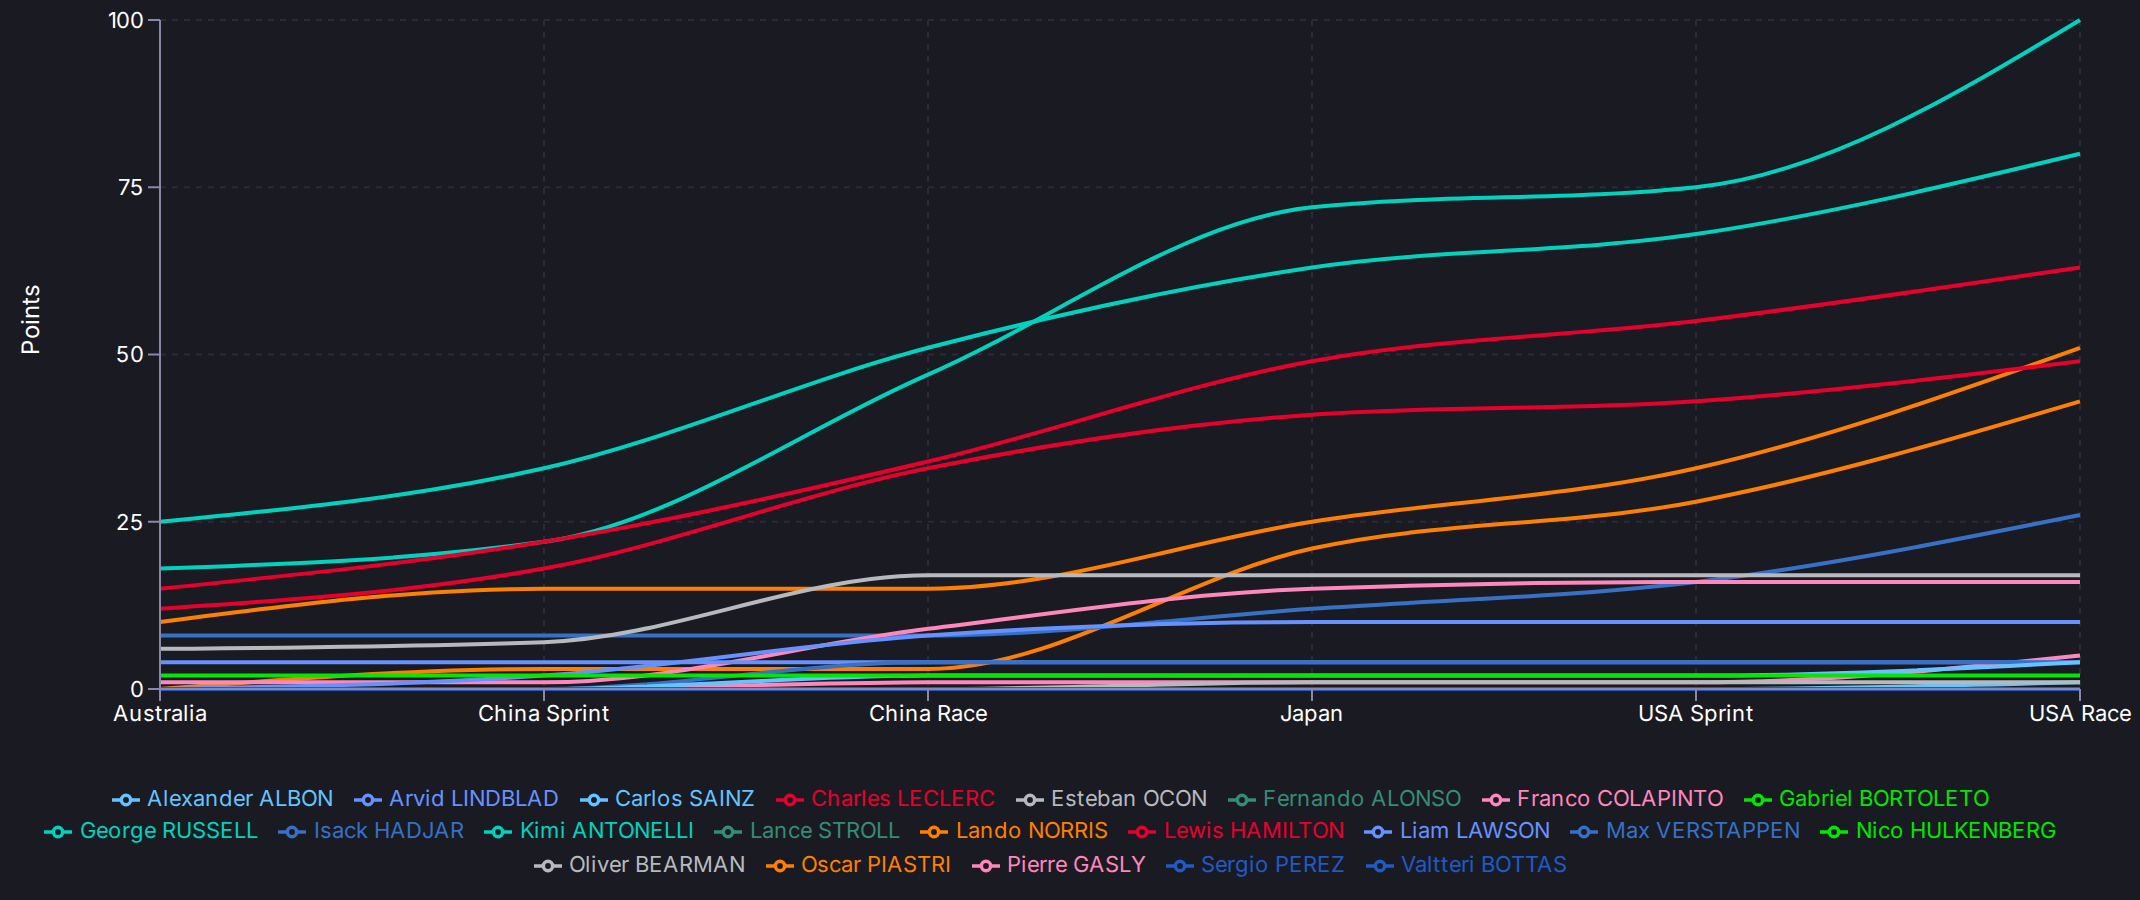
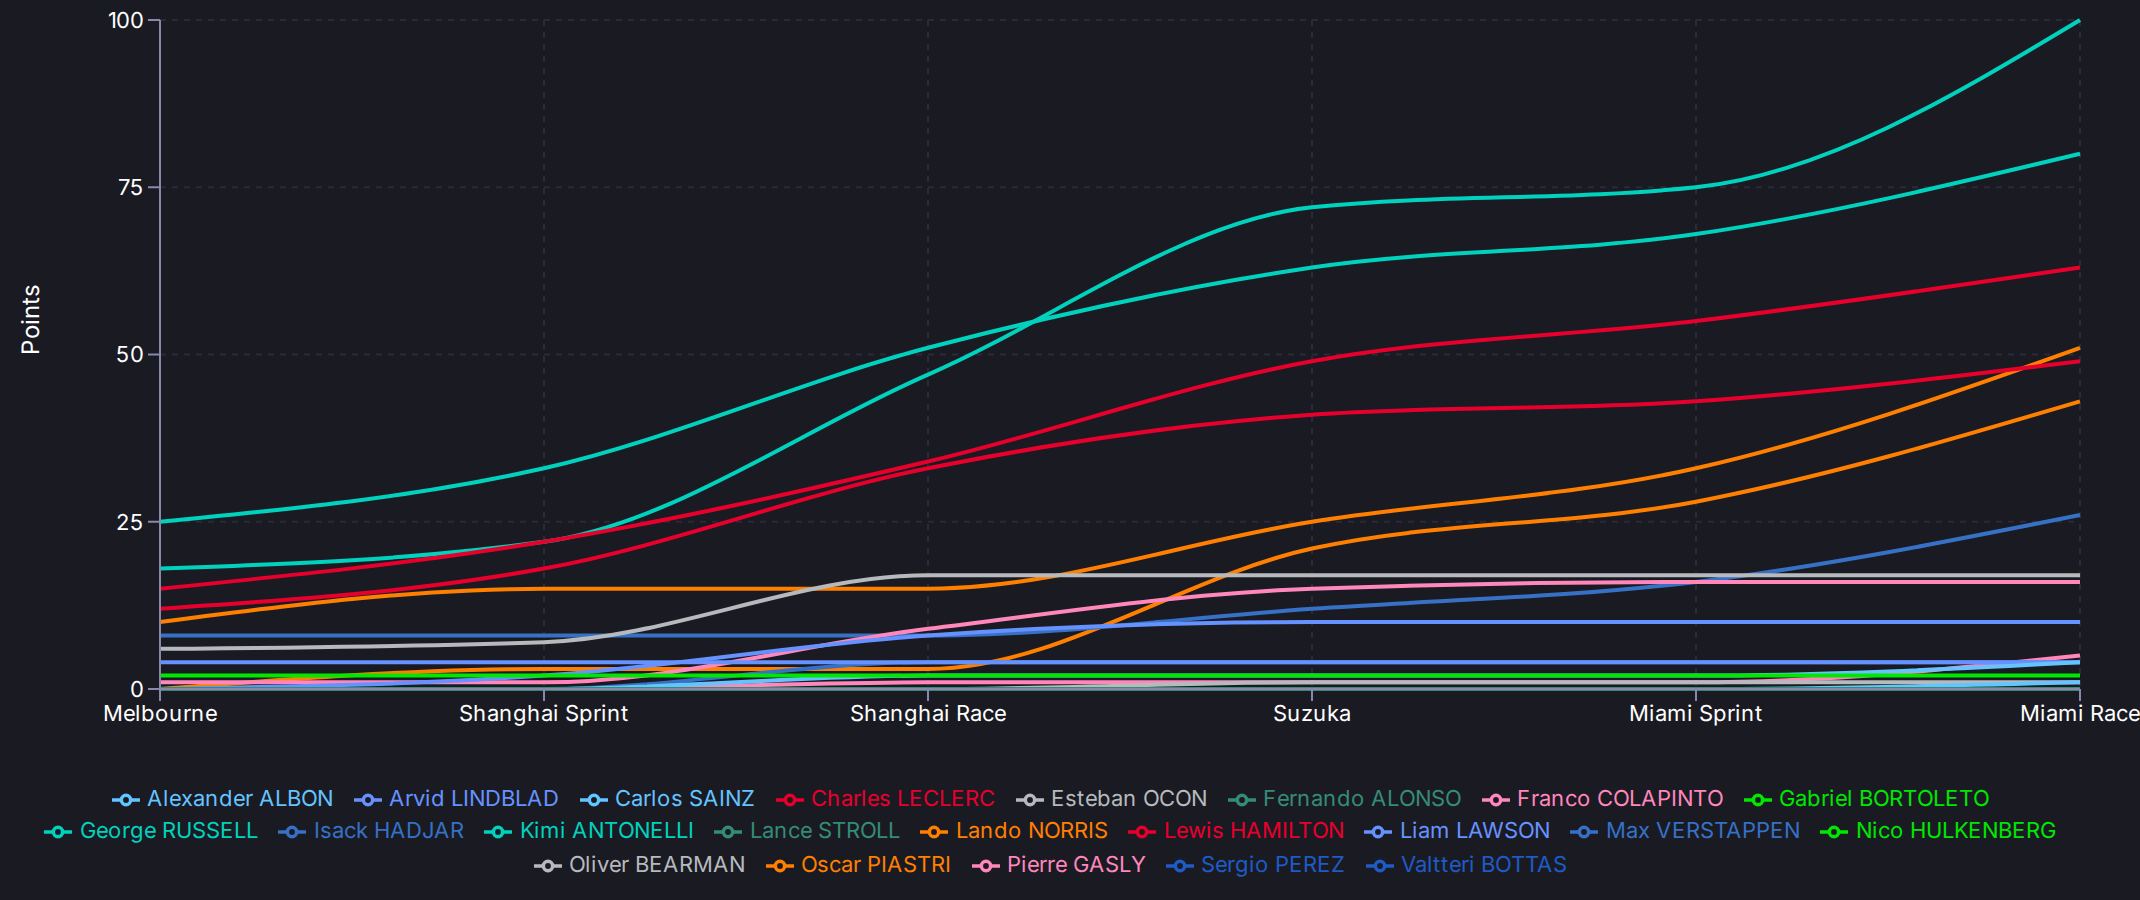
blog: day 24-25 — circuit-name labels and sprint session saga
Day 24: progression chart X-axis labels fixed from country names to
circuit short names (Melbourne, Suzuka, Miami).

Day 25: three-bug cascade fixing Miami sprint sessions — session dedup,
result grouping by session_key, and poller finalized-flag clobber.

Updates README with new blog section and current status for PRs #77-#80.
Adds prev/next nav link to day-23.

diff --git a/docs/blog/day-25-sprint-session-saga.md b/docs/blog/day-25-sprint-session-saga.md
@@ -1,0 +1,129 @@
+# Day 25: The Sprint Sessions That Showed Nothing — A Three-Bug Cascade
+
+*Posted May 5, 2026 · Karl Kuhnhausen*
+
+---
+
+Miami was a sprint weekend. Five sessions: Practice 1, Sprint Qualifying, Sprint, Qualifying, Race. When you clicked into the Miami round detail page, you saw three sessions — Practice 1, Qualifying, and Race — each with 22 results. Sprint Qualifying and Sprint were invisible. Then they appeared with zero results. Then the results finally populated, but only after discovering a poller bug that had been silently wasting every OpenF1 API call for weeks.
+
+Three PRs. Three distinct root causes. One frustrating afternoon of "we are thrashing back and forth."
+
+## Bug 1: The Missing Sprint Sessions (PR #77)
+
+The round detail page showed only three of Miami's five sessions. The sprint sessions existed in Cosmos but weren't appearing in the API response.
+
+The root cause was session deduplication logic in the rounds service. When the Feature 008 stable-identity migration ran, it created new session documents with correct `session_type` values ("sprint", "sprint_qualifying") alongside old documents that had stale types. The dedup logic kept one session per `session_type` — but the old documents and new documents had different IDs, so both survived in Cosmos. When the API loaded sessions for a round, the dedup saw the old "race"-typed document and the new "sprint"-typed document as different types, kept both, and the frontend rendered whichever came first.
+
+Except the old documents came first. And they had `session_type: "race"` — so the dedup kept the old race-typed document and discarded the new sprint-typed one.
+
+**Fix:** Bump `SessionSchemaVersion` to 7, forcing the poller to re-fetch all sessions. The new documents overwrote the old ones with correct session types. The dedup in the rounds service was updated to keep the *newest* session per type (by `DateStartUTC`), and sessions were sorted chronologically for display.
+
+## Bug 2: The Results That Went to the Wrong Session (PR #78)
+
+After PR #77 deployed, Sprint Qualifying and Sprint appeared in the round detail page — but with zero results each. Meanwhile, the Race session had duplicate results (its own 22 plus another 22 from somewhere). The total result count was right; the distribution was wrong.
+
+The root cause: result documents in Cosmos were grouped by `session_type` to match them to sessions. Old sprint result documents had `session_type: "race"` (inherited from pre-008 ingestion when sprints were mistyped). When the Sprint session (correctly typed `"sprint"`) looked up `resultsByType["sprint"]`, it found nothing. The Race session's lookup for `resultsByType["race"]` found its own 22 results *plus* the 22 mis-typed sprint results.
+
+**Fix:** Group results by `session_key` instead of `session_type`. Each session has a globally unique `session_key` (assigned by OpenF1), and every result document stores the `session_key` it belongs to. This eliminated cross-contamination regardless of what `session_type` string was stored in stale documents.
+
+```go
+// Before: results grouped by session_type (fragile)
+resultsByType := make(map[string][]storage.SessionResult)
+for _, r := range results {
+    resultsByType[r.SessionType] = append(resultsByType[r.SessionType], r)
+}
+
+// After: results grouped by session_key (unique per session)
+resultsByKey := make(map[int][]storage.SessionResult)
+for _, r := range results {
+    resultsByKey[r.SessionKey] = append(resultsByKey[r.SessionKey], r)
+}
+```
+
+## Bug 3: The Poller That Kept Undoing Its Own Work (PR #79)
+
+After PR #78 deployed, the sprint sessions appeared with the correct structure — but still had zero results. The poller logs told the story:
+
+```json
+{"level":"ERROR","msg":"session results failed","session_key":11271,"error":"...unexpected status 429"}
+{"level":"ERROR","msg":"session results failed","session_key":11275,"error":"...unexpected status 429"}
+```
+
+Every poll cycle, the poller re-processed sessions that should have been finalized and skipped. It finalized Round 1's sessions, then Round 2's, then hit OpenF1's rate limit before reaching Miami (Round 4). On the next cycle — same thing. Round 1 finalized again. Round 2 finalized again. Rate limited again. Miami never got a turn.
+
+The root cause was a subtle ordering bug in the poll loop:
+
+```go
+// 1. Upsert session metadata (creates doc with Finalized=false)
+sess := TransformSession(raw, season, round)
+p.repo.UpsertSession(ctx, sess)  // ← Clobbers finalized flag!
+
+// 2. Check if already finalized (too late — we just set it to false)
+if cachedVer, isFinalized := finalizedKeys[raw.SessionKey]; isFinalized {
+    skipped++
+    continue
+}
+```
+
+`TransformSession()` always creates a session document with `Finalized: false`. The metadata upsert ran *before* the finalized-skip check. So every previously-finalized session had its `Finalized` flag clobbered back to `false` in Cosmos on every single poll cycle. The `finalizedKeys` map was loaded at the top of the cycle from Cosmos — but by the time the skip check ran, the upsert had already overwritten the document.
+
+The poller was doing the digital equivalent of checking whether a door is locked, then unlocking it, then checking again and finding it unlocked.
+
+**Fix:** Move the finalized-skip check *before* the metadata upsert:
+
+```go
+// 1. Check if already finalized (skip entirely — no writes, no API calls)
+if cachedVer, isFinalized := finalizedKeys[raw.SessionKey]; isFinalized {
+    skipped++
+    continue
+}
+
+// 2. Only then upsert metadata for sessions that need processing
+sess := TransformSession(raw, season, round)
+p.repo.UpsertSession(ctx, sess)
+```
+
+This matched the original design intent documented in the comment above `finalizedKeys`: "Sessions whose cached schema_version matches the current code version are skipped entirely — no metadata upsert, no results/drivers/laps fetch."
+
+## The Rate-Limit Cascade
+
+The finalized-clobber bug was particularly destructive because AKS runs two backend replicas. Both pods have independent pollers. Both were re-processing every session every cycle. With 36 completed sessions, each pod made ~108 OpenF1 API calls per cycle (session_result + drivers + laps per session) instead of the expected ~0 for already-finalized sessions. Two pods × 108 calls × every 5 minutes = sustained 429s from OpenF1.
+
+After deploying the fix and temporarily scaling to 1 replica to let the backlog drain, the poller worked through all sessions in about 15 minutes. Miami's sprint sessions finally got their results:
+
+![Miami round detail showing all five sessions with results](images/day-25-miami-full.png)
+
+All five sessions populated:
+- Practice 1: 22 results
+- Sprint Qualifying: 21 results
+- Sprint: 22 results
+- Qualifying: 22 results
+- Race: 22 results
+
+(Sprint Qualifying has 21 instead of 22 — one driver likely had no data published by OpenF1 for that session.)
+
+## The Sprint Results
+
+![Miami Sprint session results](images/day-25-miami-sprint.png)
+
+Compare with a standard (non-sprint) weekend like Suzuka, which has three sessions — Practice 1, Qualifying, Race — instead of five:
+
+![Japan round detail — standard weekend](images/day-25-japan-full.png)
+
+## What Each PR Fixed
+
+| PR | Problem | Root Cause | Fix |
+|----|---------|------------|-----|
+| [#77](https://github.com/karlkuhnhausen/f1-race-intelligence/pull/77) | Sprint sessions invisible | Stale documents with wrong `session_type` survived dedup | Schema v7 bump + dedup keeps newest per type |
+| [#78](https://github.com/karlkuhnhausen/f1-race-intelligence/pull/78) | Sprint sessions show 0 results | Results grouped by `session_type`, stale results had wrong type | Group by `session_key` instead |
+| [#79](https://github.com/karlkuhnhausen/f1-race-intelligence/pull/79) | Poller never reaches Miami | Metadata upsert clobbers `Finalized` flag before skip check | Move skip check before upsert |
+
+## Lesson
+
+When a migration introduces new document versions alongside old ones, every query that touches those documents must tolerate both versions coexisting. Dedup by type, group by type, filter by type — all of these broke because the "type" field in old documents was wrong. Using a truly unique key (`session_key`) instead of a semantic label (`session_type`) made the system resilient to stale data without requiring a backfill.
+
+The poller clobber bug is the more insidious lesson. The code *looked* correct — there was a finalized-skip check right there in the loop. But ordering matters. An upsert-then-check is not the same as check-then-upsert, and in a system where the upsert resets the very flag you're about to check, the difference is between "process 0 sessions per cycle" and "process all 36 sessions per cycle, forever."
+
+---
+
+[← Day 24: "USA Race" Is Not a Circuit — Fixing the Progression Chart Labels](day-24-circuit-name-labels.md) · [Day 26: 657 Unhealthy — Triaging Defender for Cloud on a Side Project →](day-26-defender-recommendations.md)

diff --git a/docs/blog/day-24-circuit-name-labels.md b/docs/blog/day-24-circuit-name-labels.md
@@ -1,0 +1,56 @@
+# Day 24: "USA Race" Is Not a Circuit — Fixing the Progression Chart Labels
+
+*Posted May 5, 2026 · Karl Kuhnhausen*
+
+---
+
+The standings progression chart shipped with Feature 007 had a readability problem hiding in plain sight. The X-axis labels read "Australia", "China Sprint", "China Race", "Japan", "USA Sprint", "USA Race." Country names. Technically correct — Miami is in the United States — but nobody watching F1 calls the Miami Grand Prix "USA Race." They call it Miami.
+
+The data was already there. OpenF1's `/v1/meetings` endpoint returns a `circuit_short_name` field with exactly the values you'd want: "Melbourne", "Shanghai", "Suzuka", "Miami." The ingest layer was already storing it in the `CircuitName` field of every meeting document in Cosmos. The `buildRoundLabels` function in the standings service just... preferred `CountryName` over it.
+
+## The One-Line Fix
+
+The original code:
+
+```go
+name := m.CountryName
+if name == "" {
+    name = m.CircuitName
+}
+name = shortenCircuitLabel(name)
+```
+
+The `shortenCircuitLabel` helper existed solely to patch country names into less-awkward forms — "United States" → "USA", "United Arab Emirates" → "Abu Dhabi." A function whose entire purpose was to work around using the wrong field.
+
+The fix:
+
+```go
+name := m.CircuitName
+if name == "" {
+    name = m.CountryName
+}
+```
+
+No shortening needed. Circuit short names are already short. `shortenCircuitLabel` became dead code and was deleted.
+
+**Before:** Australia, China Sprint, China Race, Japan, USA Sprint, USA Race
+
+**After:** Melbourne, Shanghai Sprint, Shanghai Race, Suzuka, Miami Sprint, Miami Race
+
+## The Result
+
+![Standings progression chart with circuit-name labels](images/day-24-chart-closeup.png)
+
+The chart now reads the way an F1 fan would talk about the season: Melbourne, Shanghai, Suzuka, Miami. When the calendar reaches circuits in countries that host multiple races (like the United States with Miami, Las Vegas, and Austin), the labels will naturally disambiguate — "Miami Race" vs "Las Vegas Race" — instead of showing three indistinguishable "USA Race" entries.
+
+Sprint weekends still get the suffix: "Miami Sprint" and "Miami Race" for the two scoring sessions at a sprint weekend. Standard weekends show just the circuit name.
+
+## What Changed
+
+One file, two edits: swap `CountryName` for `CircuitName` in the label builder, delete the unused `shortenCircuitLabel` function. PR [#80](https://github.com/karlkuhnhausen/f1-race-intelligence/pull/80).
+
+The kind of fix where the hardest part is noticing the problem.
+
+---
+
+[← Day 23: The Round Numbers Were Lying — A Cancelled-Race Desync](day-23-cancelled-round-desync.md) | [Day 25: The Sprint Sessions That Showed Nothing →](day-25-sprint-session-saga.md)

diff --git a/README.md b/README.md
@@ -45,6 +45,7 @@ This project is being built in public, with architecture decisions and progress 
 - [Day 9: The Struggle Bus to a Private Cosmos DB](docs/blog/day-9-cosmos-private-endpoint.md)
 - [Day 17: A Real CVE Lands on a Real Cluster](docs/blog/day-17-cve-aks-5753-patching.md) — runbook: [`docs/security/cve-aks-5753.md`](docs/security/cve-aks-5753.md)
 - [Day 18: The Race Weekend That Showed Nothing](docs/blog/day-18-live-race-data-bugs.md)
+- [Day 26: 657 Unhealthy — Triaging Defender for Cloud on a Side Project](docs/blog/day-26-defender-recommendations.md)
 
 ### Feature 4: Design System & Brand Identity
 

diff --git a/docs/blog/day-23-cancelled-round-desync.md b/docs/blog/day-23-cancelled-round-desync.md
@@ -86,4 +86,4 @@ The fix was 236 lines of code across 11 files, a new unit test, and one addition
 
 ---
 
-[← Day 22: The Standings Overhaul — Real Data, Real Bugs, and a Credit Long Overdue](day-22-standings-overhaul.md)
+[← Day 22: The Standings Overhaul — Real Data, Real Bugs, and a Credit Long Overdue](day-22-standings-overhaul.md) | [Day 24: "USA Race" Is Not a Circuit — Fixing the Progression Chart Labels →](day-24-circuit-name-labels.md)
